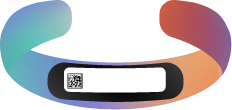
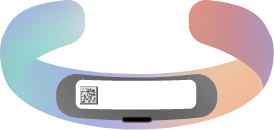
confirm
Former-commit-id: 40f791ca7bd264816263ae0ff01bc2e5250054f3

diff --git a/src/screens/AddHardware/Pairing/Confirm.js b/src/screens/AddHardware/Pairing/Confirm.js
@@ -8,7 +8,7 @@ import FlareDeviceID from '../../../bits/FlareDeviceID';
 import RoundedButton from '../../../bits/RoundedButton';
 
 const Confirm = ({ device, submit, busy }) => {
-    const [secondFactor, setSecondFactor] = React.useState();
+    const [secondFactor, setSecondFactor] = React.useState('');
     const onPress = React.useCallback(() => {
         submit({ deviceId: device, secondFactor });
     }, [submit, device, secondFactor]);
@@ -20,14 +20,18 @@ const Confirm = ({ device, submit, busy }) => {
             keyboardVerticalOffset={96}
             behavior="padding"
         >
-            <Headline>Confirm your Flare</Headline>
-            <Text style={[styles.helpText, { marginBottom: 0 }]}>
-                Enter the last 3 digits of your serial number
+            <Headline style={{ marginBottom: 0 }}>Confirm your Flare</Headline>
+            <Text
+                style={[styles.helpText, styles.whiteText, { marginBottom: 0 }]}
+            >
+                Enter the last 3 digits of your serial number, we’re security
+                buffs:
             </Text>
             <CuffPreview
                 style={{ alignSelf: 'center', marginTop: 48 }}
                 text={deviceLabel}
                 onChangeText={setSecondFactor}
+                onSubmitEditing={onPress}
             />
             <RoundedButton
                 wrapperStyle={{
@@ -36,9 +40,9 @@ const Confirm = ({ device, submit, busy }) => {
                     marginBottom: 16,
                 }}
                 text="Continue"
-                useGradient={false}
                 busy={busy}
                 onPress={onPress}
+                disabled={secondFactor.length < 3}
             />
         </KeyboardAvoidingView>
     );

diff --git a/src/screens/AddHardware/Pairing/CuffPreview.js b/src/screens/AddHardware/Pairing/CuffPreview.js
@@ -9,11 +9,12 @@ import {
 } from 'react-native';
 
 import image from '../../../assets/cuff-confirm.png';
+import Colors from '../../../bits/Colors';
 
 const styles = StyleSheet.create({
     container: {
-        width: 232,
-        height: 110,
+        width: 274,
+        height: 130,
     },
     image: {
         position: 'absolute',
@@ -24,12 +25,13 @@ const styles = StyleSheet.create({
     },
     textWrapper: {
         position: 'absolute',
-        left: 87,
-        top: 71,
+        left: 100,
+        top: 84,
         flexDirection: 'row',
     },
     text: {
-        fontSize: 14,
+        fontSize: 16,
+        color: Colors.black,
     },
     textInput: {
         borderWidth: 0,
@@ -37,7 +39,7 @@ const styles = StyleSheet.create({
     },
 });
 
-const CuffPreview = ({ text = '', style, onChangeText }) => {
+const CuffPreview = ({ text = '', style, ...rest }) => {
     const inputRef = React.useRef(null);
     const focusInput = React.useCallback(() => {
         if (inputRef.current) {
@@ -65,8 +67,9 @@ const CuffPreview = ({ text = '', style, onChangeText }) => {
                         autoCorrect={false}
                         keyboardType="ascii-capable"
                         returnKeyType="next"
-                        onChangeText={onChangeText}
                         maxLength={9 - text.length}
+                        keyboardAppearance="dark"
+                        {...rest}
                     />
                 </View>
             </View>

diff --git a/src/screens/AddHardware/Pairing/Bluetooth.js b/src/screens/AddHardware/Pairing/Bluetooth.js
@@ -90,12 +90,6 @@ const Bluetooth = ({ style }) => {
             <View style={styles.spacer} />
             <Cuff button animation={TOUCH_AND_RELEASE} />
             <View style={{ flexGrow: 2 }} />
-            <TouchableOpacity
-                onPress={havingTrouble}
-                style={localStyles.troubleBox}
-            >
-                <Text style={localStyles.trouble}>Having trouble?</Text>
-            </TouchableOpacity>
         </View>
     );
 };
